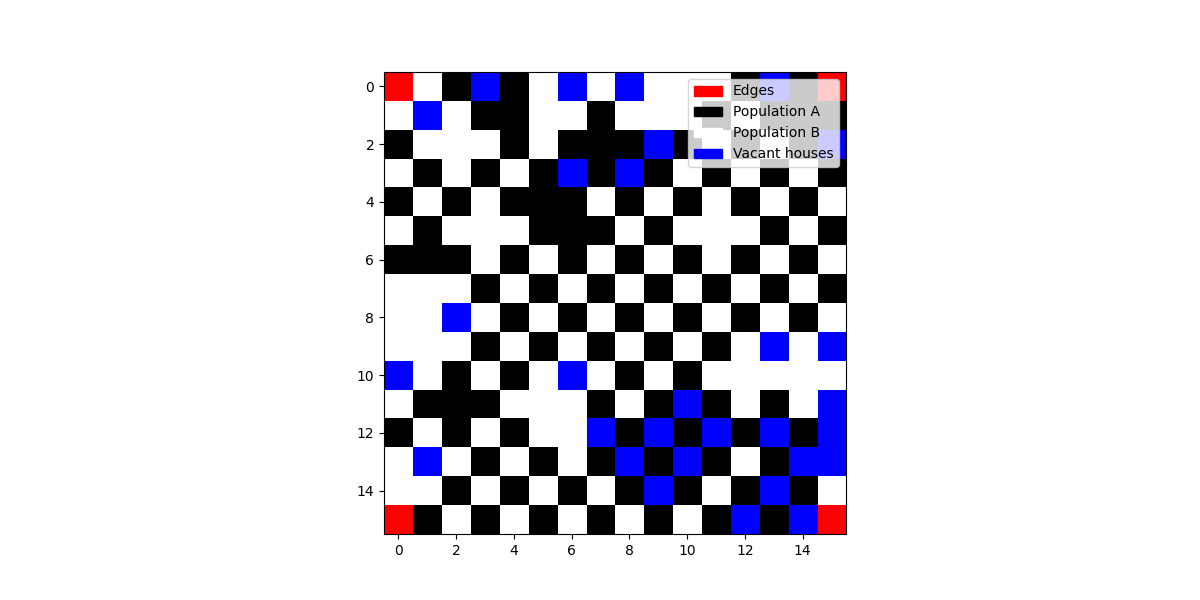
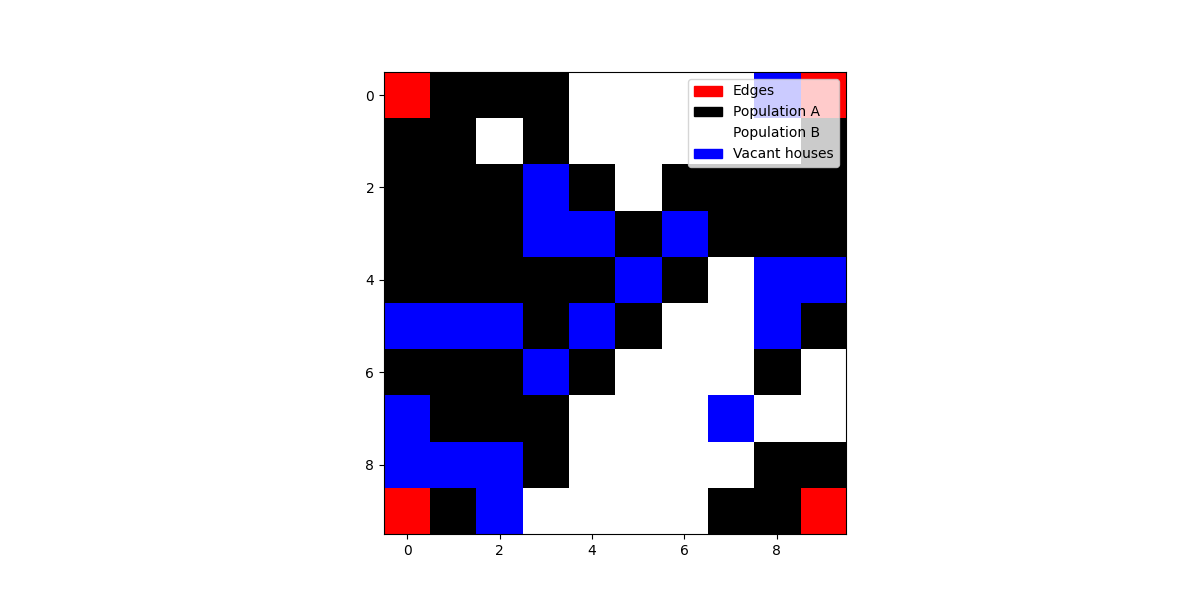
Add simulation worker

Changed region(s): [[0.3083, 0.12, 0.7092, 0.93], [0.3083, 0.9, 0.3392, 0.93]]

diff --git a/ethnic_residential_dynamics/processes/workers/make_simulation.py b/ethnic_residential_dynamics/processes/workers/make_simulation.py
@@ -4,12 +4,12 @@ from typing import Optional
 
 import numpy as np
 
-# from ethnic_residential_dynamics.utils.parser import get_command_line_parser
 from ethnic_residential_dynamics.libs.init_matrix import perfect_distribution
 from ethnic_residential_dynamics.libs.satisfaction import (
     get_unsatisfied,
     move_to_satisfaction,
 )
+from ethnic_residential_dynamics.utils.parser import get_command_line_parser
 from ethnic_residential_dynamics.utils.plot_matrix import plot_citizen_matrix
 from ethnic_residential_dynamics.utils.unbalance_matrix import (
     add_citizens,
@@ -17,21 +17,17 @@ from ethnic_residential_dynamics.utils.unbalance_matrix import (
 )
 
 
-def simulation(
-    args: Namespace,
-    size_population: int,
-    count_remove: int,
-    count_add: int,
-    stop_satisfaction: int,
-    stop_recursive: int,
-) -> Optional[bool]:
+def simulation(args: Namespace,) -> Optional[bool]:
     """Plot neighborhood and check the convergence."""
-    matrix_model = perfect_distribution(matrix_size=size_population)
-    matrix_model = remove_citizen(matrix=matrix_model, count_remove=count_remove)
-    matrix_model = add_citizens(matrix=matrix_model, count_add=count_add)
+    print(args.size_population)
+    matrix_model = perfect_distribution(matrix_size=args.size_population)
+    print(args.count_remove)
+    matrix_model = remove_citizen(matrix=matrix_model, count_remove=args.count_remove)
+    print(args.count_add)
+    matrix_model = add_citizens(matrix=matrix_model, count_add=args.count_add)
     list_empty_spaces = np.argwhere(matrix_model == 0).tolist()
 
-    for epoch in range(stop_satisfaction * (size_population ** 2)):
+    for epoch in range(args.stop_satisfaction * (args.size_population ** 2)):
 
         # Plot neighborhood
         if (epoch % 4) == 0:
@@ -41,7 +37,7 @@ def simulation(
         unsatisfied_individual = get_unsatisfied(
             matrix_model=matrix_model,
             recursive_counter=0,
-            stop_recursive=stop_recursive,
+            stop_recursive=args.stop_recursive,
         )
 
         if unsatisfied_individual[0] == "Converge":
@@ -59,18 +55,12 @@ def simulation(
     print("No convergence", matrix_model)
 
 
-# Simulation
-n = 15
-m = 60
-p = 30
-alpha = 3
-beta = 6
+if __name__ == "__main__":
+    simulation(args=get_command_line_parser().parse_args())
 
-# matrix_solution = simulation(
-#     args=get_command_line_parser().parse_args(),
-#     size_population=n,
-#     count_remove=m,
-#     count_add=p,
-#     stop_satisfaction=alpha,
-#     stop_recursive=beta,
-# )
+# Simulation
+# n = 15
+# m = 60
+# p = 30
+# alpha = 3
+# beta = 6

diff --git a/ethnic_residential_dynamics/utils/parser.py b/ethnic_residential_dynamics/utils/parser.py
@@ -5,6 +5,25 @@ from argparse import ArgumentParser
 def get_command_line_parser() -> ArgumentParser:
     """Standard command line parser."""
     parser = ArgumentParser()
-    parser.add_argument("--plots_path", help="Path to save plots.", required=True)
-
+    parser.add_argument(
+        "--plots_path", help="Path to save plots.", type=str, required=True
+    )
+    parser.add_argument(
+        "--size_population", help="Size of matrix.", type=int, required=True
+    )
+    parser.add_argument(
+        "--count_remove", help="Number of citizens to remove.", type=int, required=True
+    )
+    parser.add_argument(
+        "--count_add", help="Number of citizens to remove.", type=int, required=True
+    )
+    parser.add_argument(
+        "--stop_satisfaction",
+        help="Number of times to multiply matrix size to get max epochs.",
+        type=int,
+        required=True,
+    )
+    parser.add_argument(
+        "--stop_recursive", help="Integer to stop recursivity.", type=int, required=True
+    )
     return parser

diff --git a/tests/utils/test_parser.py b/tests/utils/test_parser.py
@@ -13,5 +13,25 @@ class ParserTest(unittest.TestCase):
 
     def test_get_command_line_parser(self):
         """Should return a parser with given arguments."""
-        parsed = self.parser.parse_args(["--plots_path", "plots"])
+        parsed = self.parser.parse_args(
+            [
+                "--plots_path",
+                "plots",
+                "--size_population",
+                "10",
+                "--count_remove",
+                "40",
+                "--count_add",
+                "20",
+                "--stop_satisfaction",
+                "3",
+                "--stop_recursive",
+                "6",
+            ]
+        )
         self.assertEqual(parsed.plots_path, "plots")
+        self.assertEqual(parsed.size_population, 10)
+        self.assertEqual(parsed.count_remove, 40)
+        self.assertEqual(parsed.count_add, 20)
+        self.assertEqual(parsed.stop_satisfaction, 3)
+        self.assertEqual(parsed.stop_recursive, 6)

diff --git a/tests/processes/workers/test_make_simulation.py b/tests/processes/workers/test_make_simulation.py
@@ -1,0 +1,2 @@
+"""Tests for worker make_simulation."""
+from ethnic_residential_dynamics.processes.workers.make_simulation import simulation
